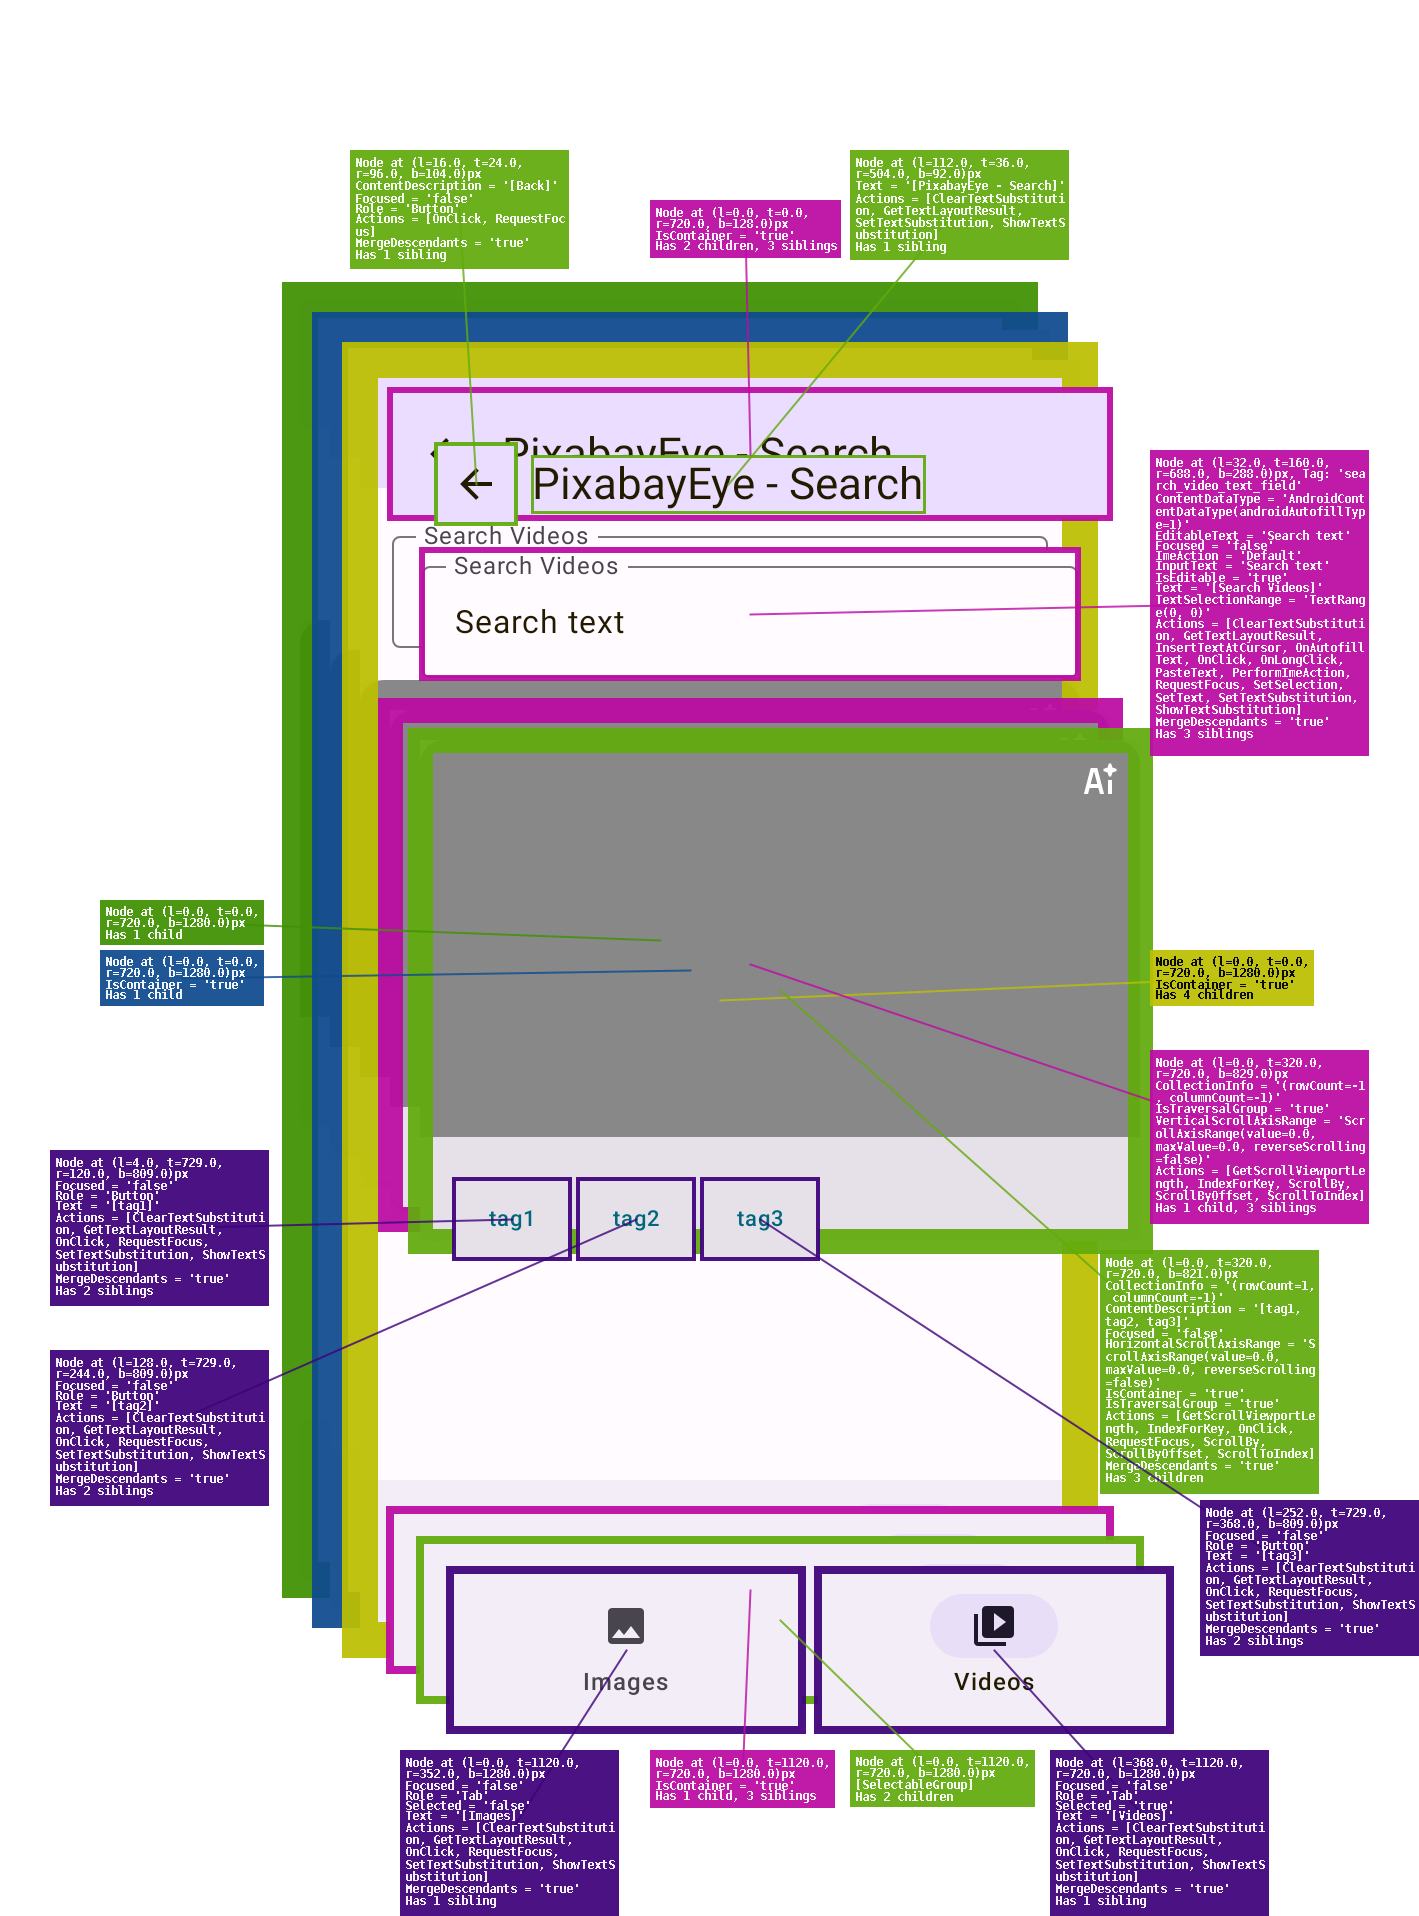
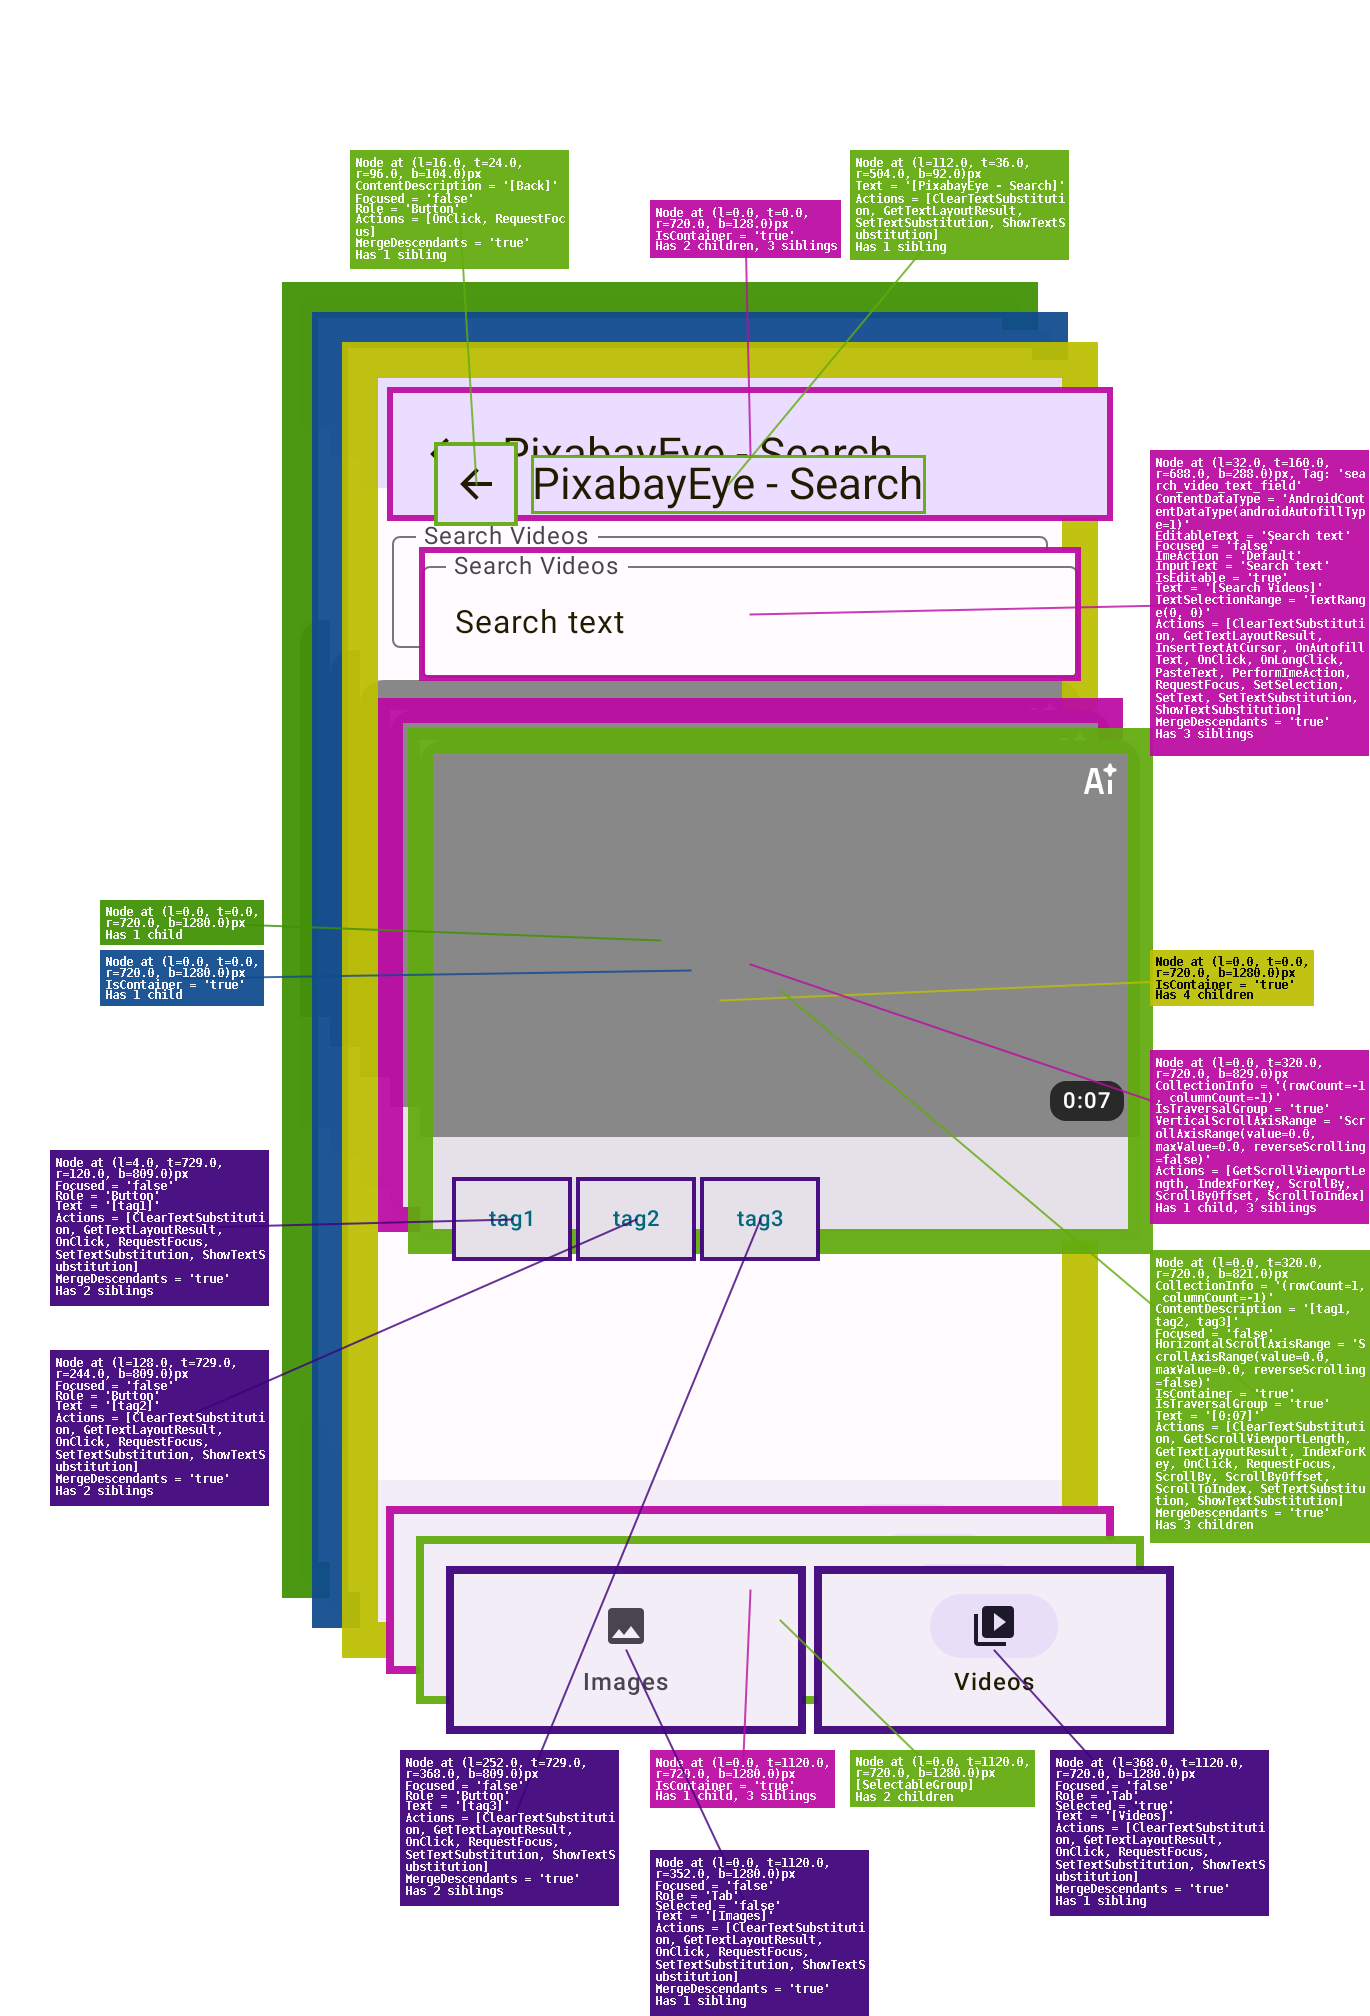
Added video duration to the video list screen

diff --git a/ui/uiVideoList/src/commonMain/kotlin/siarhei/luskanau/pixabayeye/ui/video/list/VideoListScreen.kt b/ui/uiVideoList/src/commonMain/kotlin/siarhei/luskanau/pixabayeye/ui/video/list/VideoListScreen.kt
@@ -1,5 +1,6 @@
 package siarhei.luskanau.pixabayeye.ui.video.list
 
+import androidx.compose.foundation.background
 import androidx.compose.foundation.clickable
 import androidx.compose.foundation.layout.Arrangement
 import androidx.compose.foundation.layout.Box
@@ -24,9 +25,6 @@ import androidx.compose.material3.TextButton
 import androidx.compose.runtime.Composable
 import androidx.compose.runtime.collectAsState
 import androidx.compose.runtime.getValue
-import androidx.compose.runtime.mutableStateOf
-import androidx.compose.runtime.saveable.rememberSaveable
-import androidx.compose.runtime.setValue
 import androidx.compose.ui.Alignment
 import androidx.compose.ui.Modifier
 import androidx.compose.ui.graphics.Color
@@ -158,6 +156,23 @@ internal fun VideoListContent(
                                         tint = Color.White
                                     )
                                 }
+                                // Video duration overlay
+                                val durationText = formatVideoDuration(hitModel.duration)
+                                if (durationText.isNotEmpty()) {
+                                    Text(
+                                        text = durationText,
+                                        style = MaterialTheme.typography.labelSmall,
+                                        color = Color.White,
+                                        modifier = Modifier
+                                            .align(Alignment.BottomEnd)
+                                            .padding(8.dp)
+                                            .background(
+                                                color = Color.Black.copy(alpha = 0.7f),
+                                                shape = MaterialTheme.shapes.small
+                                            )
+                                            .padding(horizontal = 6.dp, vertical = 2.dp)
+                                    )
+                                }
                             }
                             TagsContent(
                                 tagsString = hitModel.tags,
@@ -213,4 +228,25 @@ internal fun VideoListContentPreview() = AppTheme {
         searchTermFlow = flowOf("Search text"),
         onEvent = {}
     )
+}
+
+/**
+ * Formats video duration in seconds to a human-readable string
+ * @param durationSeconds Duration in seconds, can be null
+ * @return Formatted duration string (e.g., "3:05", "1:23:45") or empty string if null
+ */
+private fun formatVideoDuration(durationSeconds: Int?): String {
+    if (durationSeconds == null || durationSeconds <= 0) {
+        return ""
+    }
+    val hours = durationSeconds / 3600
+    val minutes = (durationSeconds % 3600) / 60
+    val seconds = durationSeconds % 60
+    return when {
+        hours > 0 ->
+            "$hours" +
+                ":${minutes.toString().padStart(2, '0')}" +
+                ":${seconds.toString().padStart(2, '0')}"
+        else -> "$minutes:${seconds.toString().padStart(2, '0')}"
+    }
 }

diff --git a/core/coreNetwork/src/commonMain/kotlin/siarhei/luskanau/pixabayeye/core/network/ktor/KtorPixabayApiService.kt b/core/coreNetwork/src/commonMain/kotlin/siarhei/luskanau/pixabayeye/core/network/ktor/KtorPixabayApiService.kt
@@ -99,6 +99,7 @@ private fun HitResponse.toImageHitModel(): HitModel = HitModel(
         imageSize = requireNotNull(this.imageSize),
         collections = requireNotNull(this.collections)
     ),
+    duration = null,
     videosModel = null
 )
 private fun HitResponse.toVideoHitModel(): HitModel = HitModel(
@@ -119,6 +120,7 @@ private fun HitResponse.toVideoHitModel(): HitModel = HitModel(
     // isLowQuality = this.isLowQuality,
     userURL = this.userURL,
     imageModel = null,
+    duration = this.duration,
     videosModel = this.videos.orEmpty().mapValues { (key, value) ->
         VideoHitModel(
             url = value.url,

diff --git a/core/coreNetwork/src/commonMain/kotlin/siarhei/luskanau/pixabayeye/core/network/PixabayApiService.kt b/core/coreNetwork/src/commonMain/kotlin/siarhei/luskanau/pixabayeye/core/network/PixabayApiService.kt
@@ -36,6 +36,7 @@ data class HitModel(
     // val isLowQuality: Boolean,
     val userURL: String,
     val imageModel: ImageHitModel?,
+    val duration: Int?,
     val videosModel: Map<String, VideoHitModel>?
 )
 
@@ -91,6 +92,7 @@ val testData = HitModel(
         imageSize = 12345,
         collections = 0
     ),
+    duration = 7,
     videosModel = mapOf(
         "large" to VideoHitModel(
             url = "https://example.com/video.mp4",

diff --git a/core/coreNetwork/src/commonMain/kotlin/siarhei/luskanau/pixabayeye/core/network/ktor/model/HitResponse.kt b/core/coreNetwork/src/commonMain/kotlin/siarhei/luskanau/pixabayeye/core/network/ktor/model/HitResponse.kt
@@ -32,6 +32,7 @@ internal data class HitResponse(
     @SerialName("imageHeight") val imageHeight: Int? = null,
     @SerialName("imageSize") val imageSize: Int? = null,
     @SerialName("collections") val collections: Int? = null,
+    @SerialName("duration") val duration: Int? = null,
     @SerialName("videos") val videos: Map<String, VideoHitResponse>? = null
 )
 
